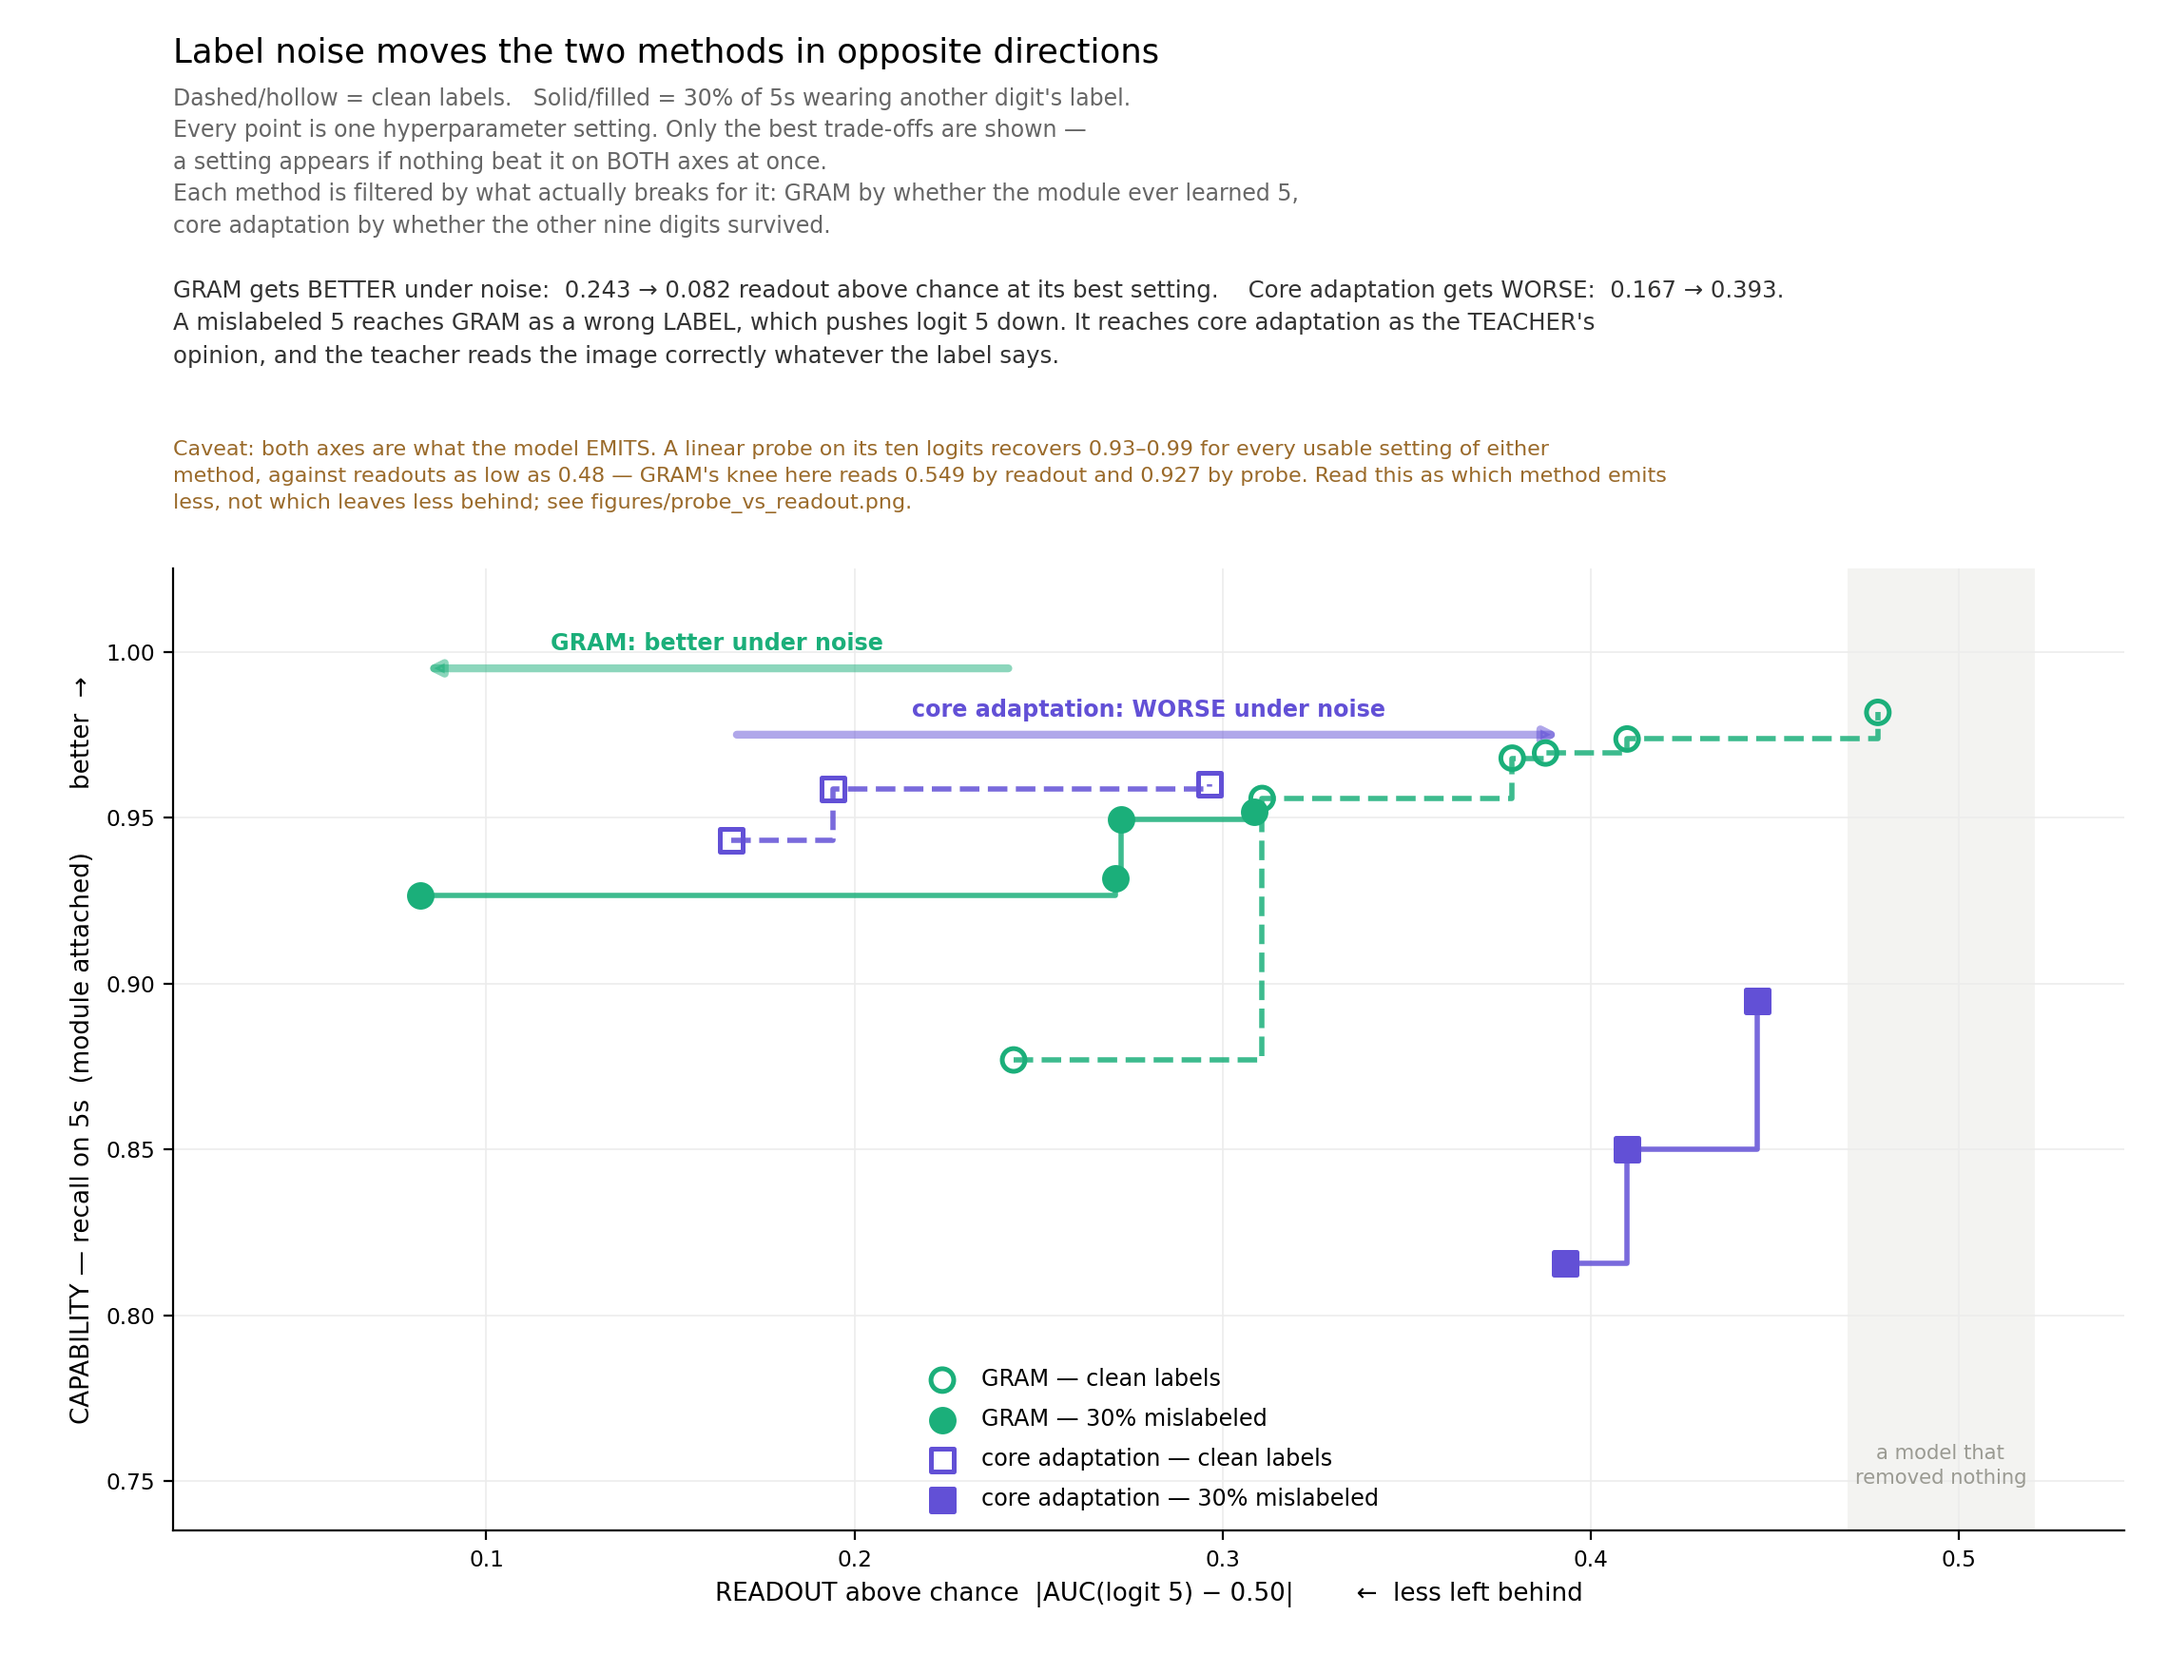
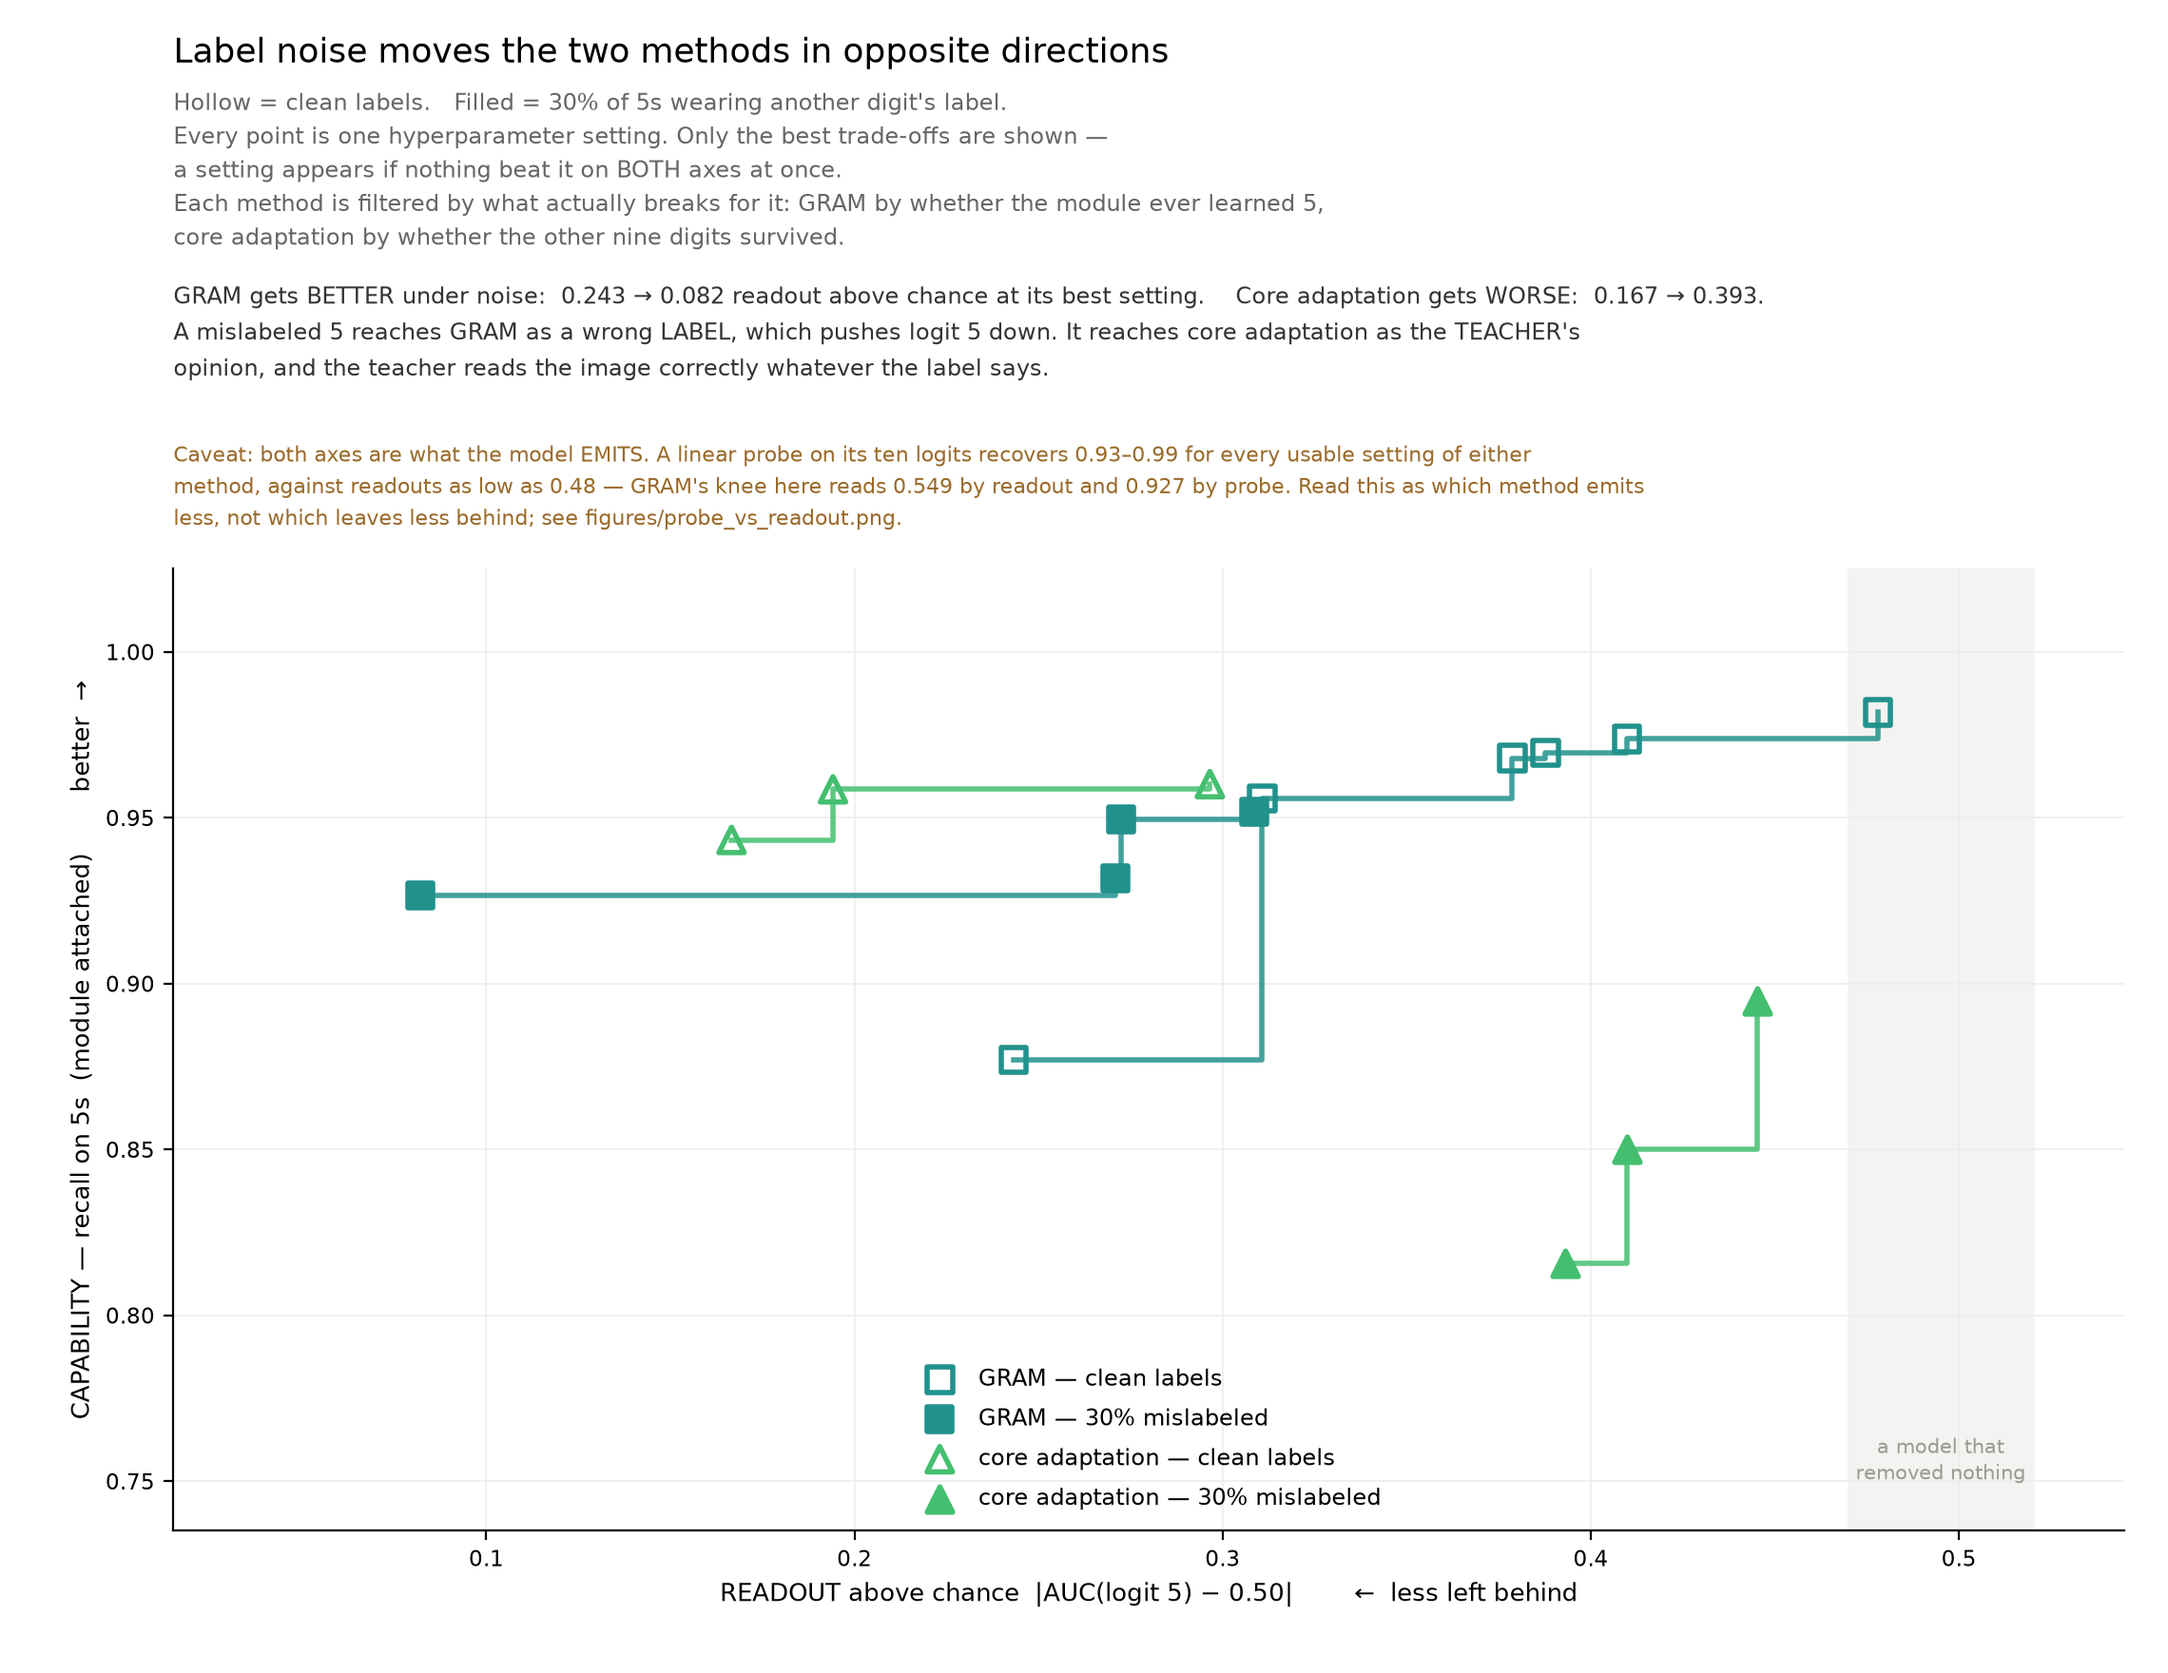
compare_pareto: drop the arrows and per-point annotations
The two direction arrows and their captions stated in ink what the marker fill already
shows, and the per-point hyperparameter labels crowded the plot once the fronts grew.
Points, fronts, legend. Palette moved onto the shared viridis + marker-shape convention
the other figures use, and the caption no longer says 'dashed' now that every line is
solid.

diff --git a/figs_compare_pareto.py b/figs_compare_pareto.py
@@ -33,7 +33,7 @@ import numpy as np
 import figlang as L
 
 HERE = os.path.dirname(os.path.abspath(__file__))
-GRAM_C, CA_C, INK, GREY = "#1baf7a", "#6250d6", "#333333", "#9a9a92"
+INK, GREY = L.C["ink"], L.C["grey"]
 
 
 def front(pts):
@@ -91,53 +91,26 @@ for rate in (0.0, 0.3):
 fig, ax = plt.subplots(figsize=(11.4, 8.8), dpi=200)
 fig.subplots_adjust(left=0.080, right=0.980, top=0.660, bottom=0.085)
 
-_ALL_LABELS = []   # every drawn point gets its hyperparameters
 SERIES = [
-    (GRAM[0.0], GRAM_C, "o", "none", "--", "GRAM — clean labels"),
-    (GRAM[0.3], GRAM_C, "o", GRAM_C, "-",  "GRAM — 30% mislabeled"),
-    (CA[0.0],   CA_C,   "s", "none", "--", "core adaptation — clean labels"),
-    (CA[0.3],   CA_C,   "s", CA_C,   "-",  "core adaptation — 30% mislabeled"),
+    (GRAM[0.0], L.VIRIDIS["gram"], "s", "none", "-", "GRAM — clean labels"),
+    (GRAM[0.3], L.VIRIDIS["gram"], "s", L.VIRIDIS["gram"], "-", "GRAM — 30% mislabeled"),
+    (CA[0.0], L.VIRIDIS["coreadapt"], "^", "none", "-", "core adaptation — clean labels"),
+    (CA[0.3], L.VIRIDIS["coreadapt"], "^", L.VIRIDIS["coreadapt"], "-",
+     "core adaptation — 30% mislabeled"),
 ]
 for F, colour, mk, fill, ls, label in SERIES:
     if not F:
         continue
     ax.plot([p["info"] for p in F], [p["cap"] for p in F], color=colour, lw=2.0, ls=ls,
             alpha=0.85, zorder=3, drawstyle="steps-post")
-    ax.scatter([p["info"] for p in F], [p["cap"] for p in F], marker=mk, s=74,
-               facecolors=fill, edgecolors=colour, linewidths=1.8, zorder=5, label=label)
-    # Label EVERY drawn point. Labelling only the knee reads as though the other points
-    # have no hyperparameters, which confused a reader of an earlier version.
-    for j, p in enumerate(F):
-        _ALL_LABELS.append((p["info"], p["cap"], p["lab"], colour))
-
-# The single most important thing to see: the two methods move in OPPOSITE directions when
-# labels go wrong. Draw that movement rather than leaving it to be inferred from line style.
-for Fc, Fn, colour, tag in ((GRAM[0.0], GRAM[0.3], GRAM_C, "GRAM"),
-                            (CA[0.0], CA[0.3], CA_C, "core adaptation")):
-    x0, x1 = Fc[0]["info"], Fn[0]["info"]
-    y = 0.995 if tag == "GRAM" else 0.975
-    ax.annotate("", xy=(x1, y), xytext=(x0, y),
-                arrowprops=dict(arrowstyle="-|>", color=colour, lw=3.0, alpha=0.5,
-                                shrinkA=2, shrinkB=2))
-    better = "better" if x1 < x0 else "WORSE"
-    ax.text((x0 + x1) / 2, y + 0.004, f"{tag}: {better} under noise",
-            fontsize=8.6, color=colour, ha="center", va="bottom", fontweight="bold")
+    ax.scatter([p["info"] for p in F], [p["cap"] for p in F], marker=mk, s=92,
+               facecolors=fill, edgecolors=colour, linewidths=2.0, zorder=5, label=label)
 
 # the reference that makes the x-axis mean something
 ax.axvline(0.4996 - 0.5 + 0.4996, color=GREY, lw=0)   # no-op, keeps layout stable
 ax.axvspan(0.47, 0.52, color="#f3f3f1", zorder=0)
 ax.text(0.495, 0.748, "a model that\nremoved nothing", fontsize=7.6, color=GREY,
         ha="center", va="bottom", linespacing=1.4)
-
-# place every label, nudging vertically where points nearly coincide
-_ALL_LABELS.sort()
-for i, (xx, yy, lab, col) in enumerate(_ALL_LABELS):
-    n = sum(1 for (qx, qy, _, _) in _ALL_LABELS[:i]
-            if abs(qx - xx) < 0.045 and abs(qy - yy) < 0.030)
-    ax.annotate(lab, (xx, yy), xytext=(((-1) ** n) * 6 * n, 10 + 15 * n),
-                textcoords="offset points",
-                fontsize=7.3, color=col, ha="center",
-                arrowprops=dict(arrowstyle="-", color=col, lw=0.6, alpha=0.45))
 
 ax.set_xlabel(L.READOUT_FOLDED, fontsize=9.4)
 ax.set_ylabel(L.CAPABILITY_DIR,
@@ -156,8 +129,8 @@ cc, cn = CA[0.0][0]["info"], CA[0.3][0]["info"]
 fig.suptitle("Label noise moves the two methods in opposite directions",
              fontsize=12.8, x=0.080, ha="left", y=0.978)
 fig.text(0.080, 0.948,
-         "Dashed/hollow = clean labels.   Solid/filled = 30% of 5s wearing another digit's label.\n"
-         "Every point is one hyperparameter setting, labelled with its values. Only the best trade-offs are shown —\n"
+         "Hollow = clean labels.   Filled = 30% of 5s wearing another digit's label.\n"
+         "Every point is one hyperparameter setting. Only the best trade-offs are shown —\n"
          "a setting appears if nothing beat it on BOTH axes at once.\n"
          "Each method is filtered by what actually breaks for it: GRAM by whether the module ever learned 5,\n"
          "core adaptation by whether the other nine digits survived.",
